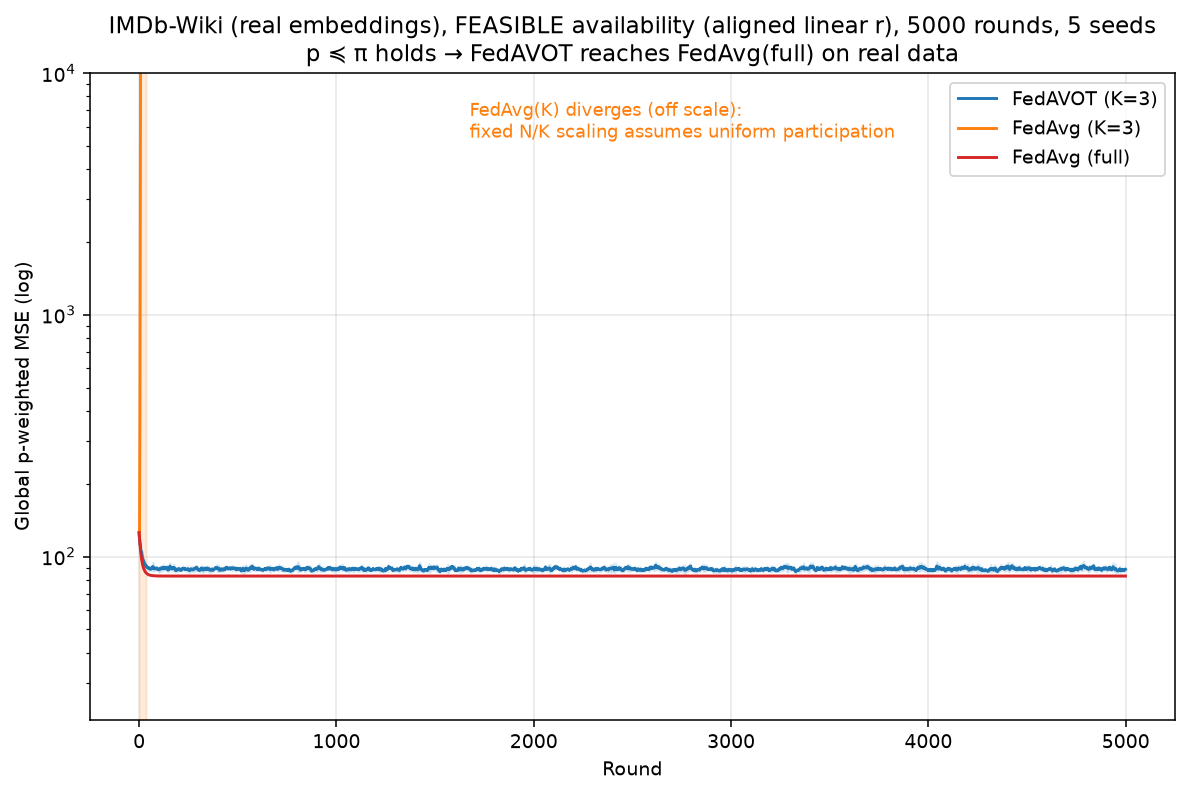
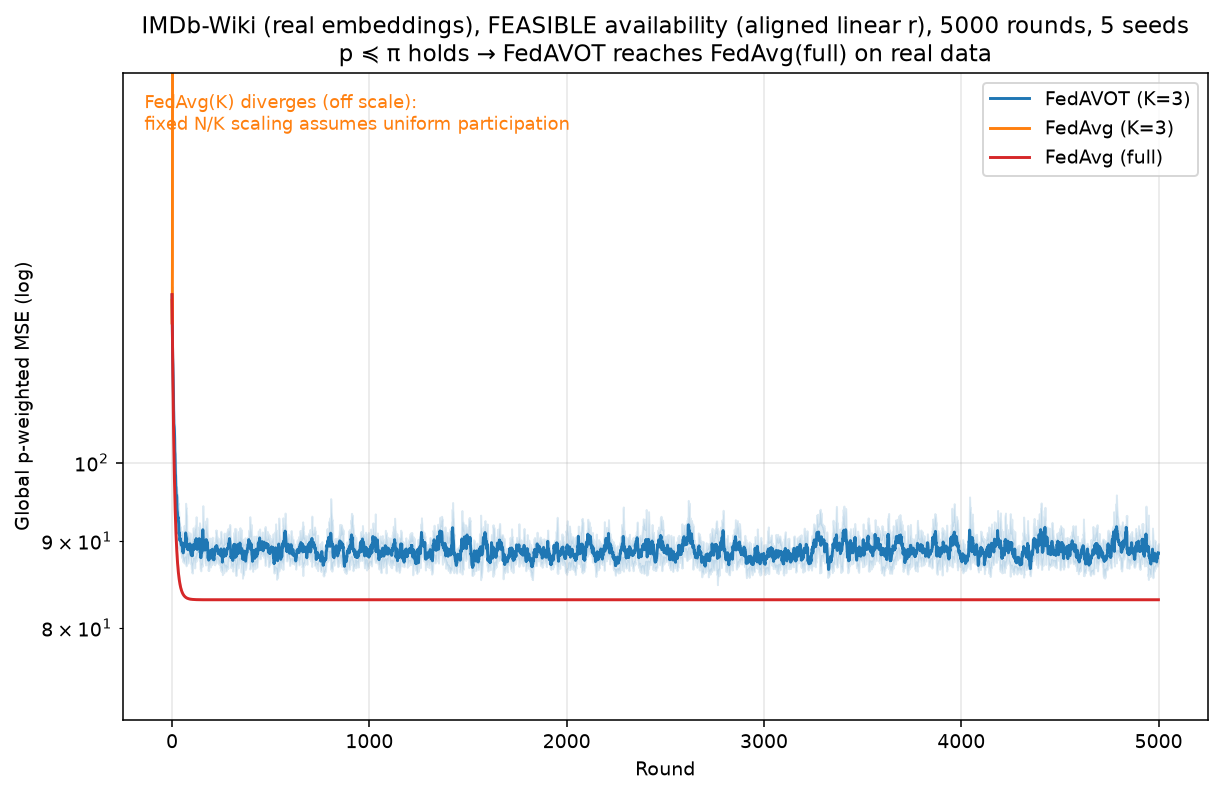
Fix feasible IMDb-Wiki figure: tight y-limits, no std band on diverged curve
The 1e4 y-cap left a huge dead zone and FedAvg(K)'s std band smeared across
the log axis once mean-std went negative. Y-limits now track the converging
curves and the diverging FedAvg(K) exits through the top, annotated. Also
save raw loss curves to data/*.npz so plot tweaks no longer need a retrain.

diff --git a/scripts/imdbwiki_feasible_5k.py b/scripts/imdbwiki_feasible_5k.py
@@ -214,24 +214,35 @@ print(f"\nFINAL (tail-{TAIL} mean over {len(SEEDS)} seeds): "
 # ================================================================
 # Figure
 # ================================================================
-def plot_curve(ax, L, label, color):
+np.savez(f"data/imdbwiki_feasible_K{K}_{ROUNDS}rounds_curves.npz",
+         fedot=np.array(all_fedot), faK=np.array(all_faK), full=np.array(all_full),
+         p=p, r=r, pi=pi)   # raw curves saved so the plot can be tweaked without retraining
+
+def plot_curve(ax, L, label, color, band=True):
     mean = np.mean(L, axis=0); std = np.std(L, axis=0)
     x = np.arange(len(mean))
     ax.plot(x, mean, label=label, color=color)
-    ax.fill_between(x, mean-std, mean+std, color=color, alpha=0.15)
+    if band:
+        ax.fill_between(x, np.maximum(mean-std, 1e-3), mean+std, color=color, alpha=0.15)
 
 fig, ax = plt.subplots(figsize=(10, 6))
 plot_curve(ax, all_fedot, f"FedAVOT (K={K})", "tab:blue")
-plot_curve(ax, all_faK, f"FedAvg (K={K})", "tab:orange")
+# FedAvg(K)'s fixed (N/K)*p_i debiasing assumes uniform participation; under
+# availability-aligned sampling it is mis-scaled (~3.7x per round) and diverges.
+# Draw its mean without a std band (the band smears on a log axis once it blows
+# up) and keep the y-limits tight around the converging curves, so the orange
+# curve simply exits through the top of the axes.
+plot_curve(ax, all_faK, f"FedAvg (K={K})", "tab:orange", band=False)
 plot_curve(ax, all_full, "FedAvg (full)", "tab:red")
 ax.set_yscale("log")
-# FedAvg(K)'s fixed (N/K)*p_i debiasing assumes uniform participation; under
-# availability-aligned sampling it is mis-scaled (~3.7x per round) and diverges,
-# so cap the axis and annotate rather than let it dwarf the converging curves.
-if np.mean(all_faK, axis=0).max() > 1e4:
-    ax.set_ylim(top=1e4)
+lo = 0.85 * min(np.mean(all_fedot, axis=0).min(), np.mean(all_full, axis=0).min())
+hi = 1.35 * max(np.mean(all_fedot, axis=0).max(), np.mean(all_full, axis=0).max())
+ax.set_ylim(lo, hi)
+if np.mean(all_faK, axis=0).max() > hi:
     ax.annotate("FedAvg(K) diverges (off scale):\nfixed N/K scaling assumes uniform participation",
-                xy=(0.35, 0.9), xycoords="axes fraction", fontsize=9, color="tab:orange")
+                xy=(0.02, 0.97), xycoords="axes fraction", va="top",
+                fontsize=9, color="tab:orange",
+                arrowprops=None)
 ax.set_xlabel("Round"); ax.set_ylabel("Global p-weighted MSE (log)")
 ax.set_title(f"IMDb-Wiki (real embeddings), FEASIBLE availability (aligned linear r), "
              f"{ROUNDS} rounds, {len(SEEDS)} seeds\n"